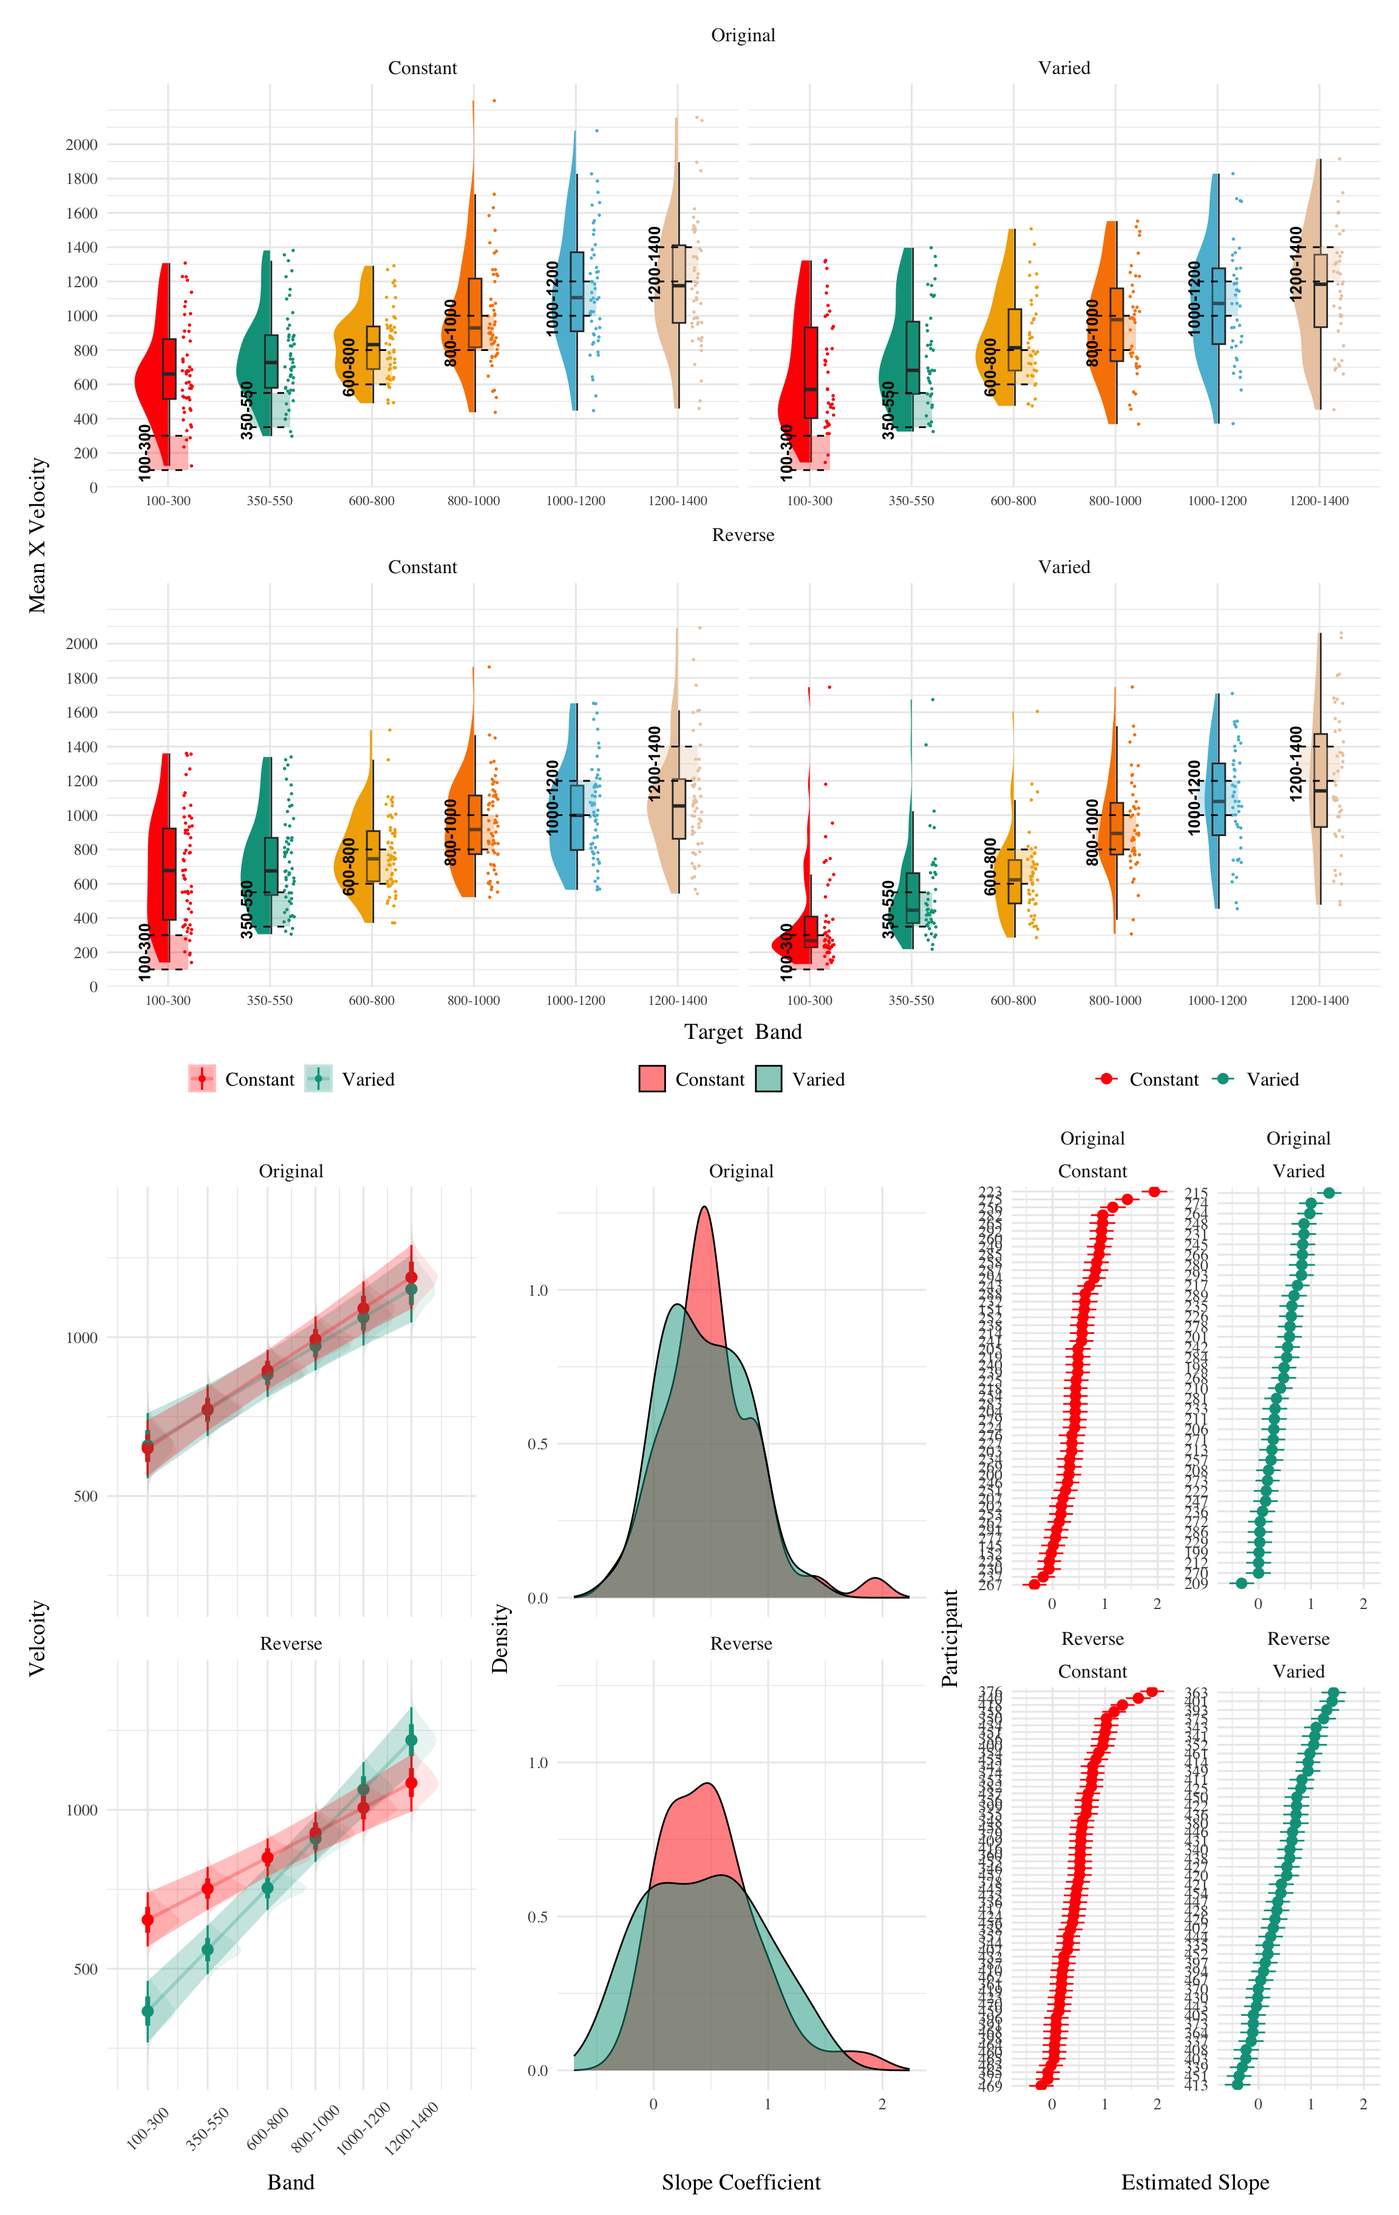
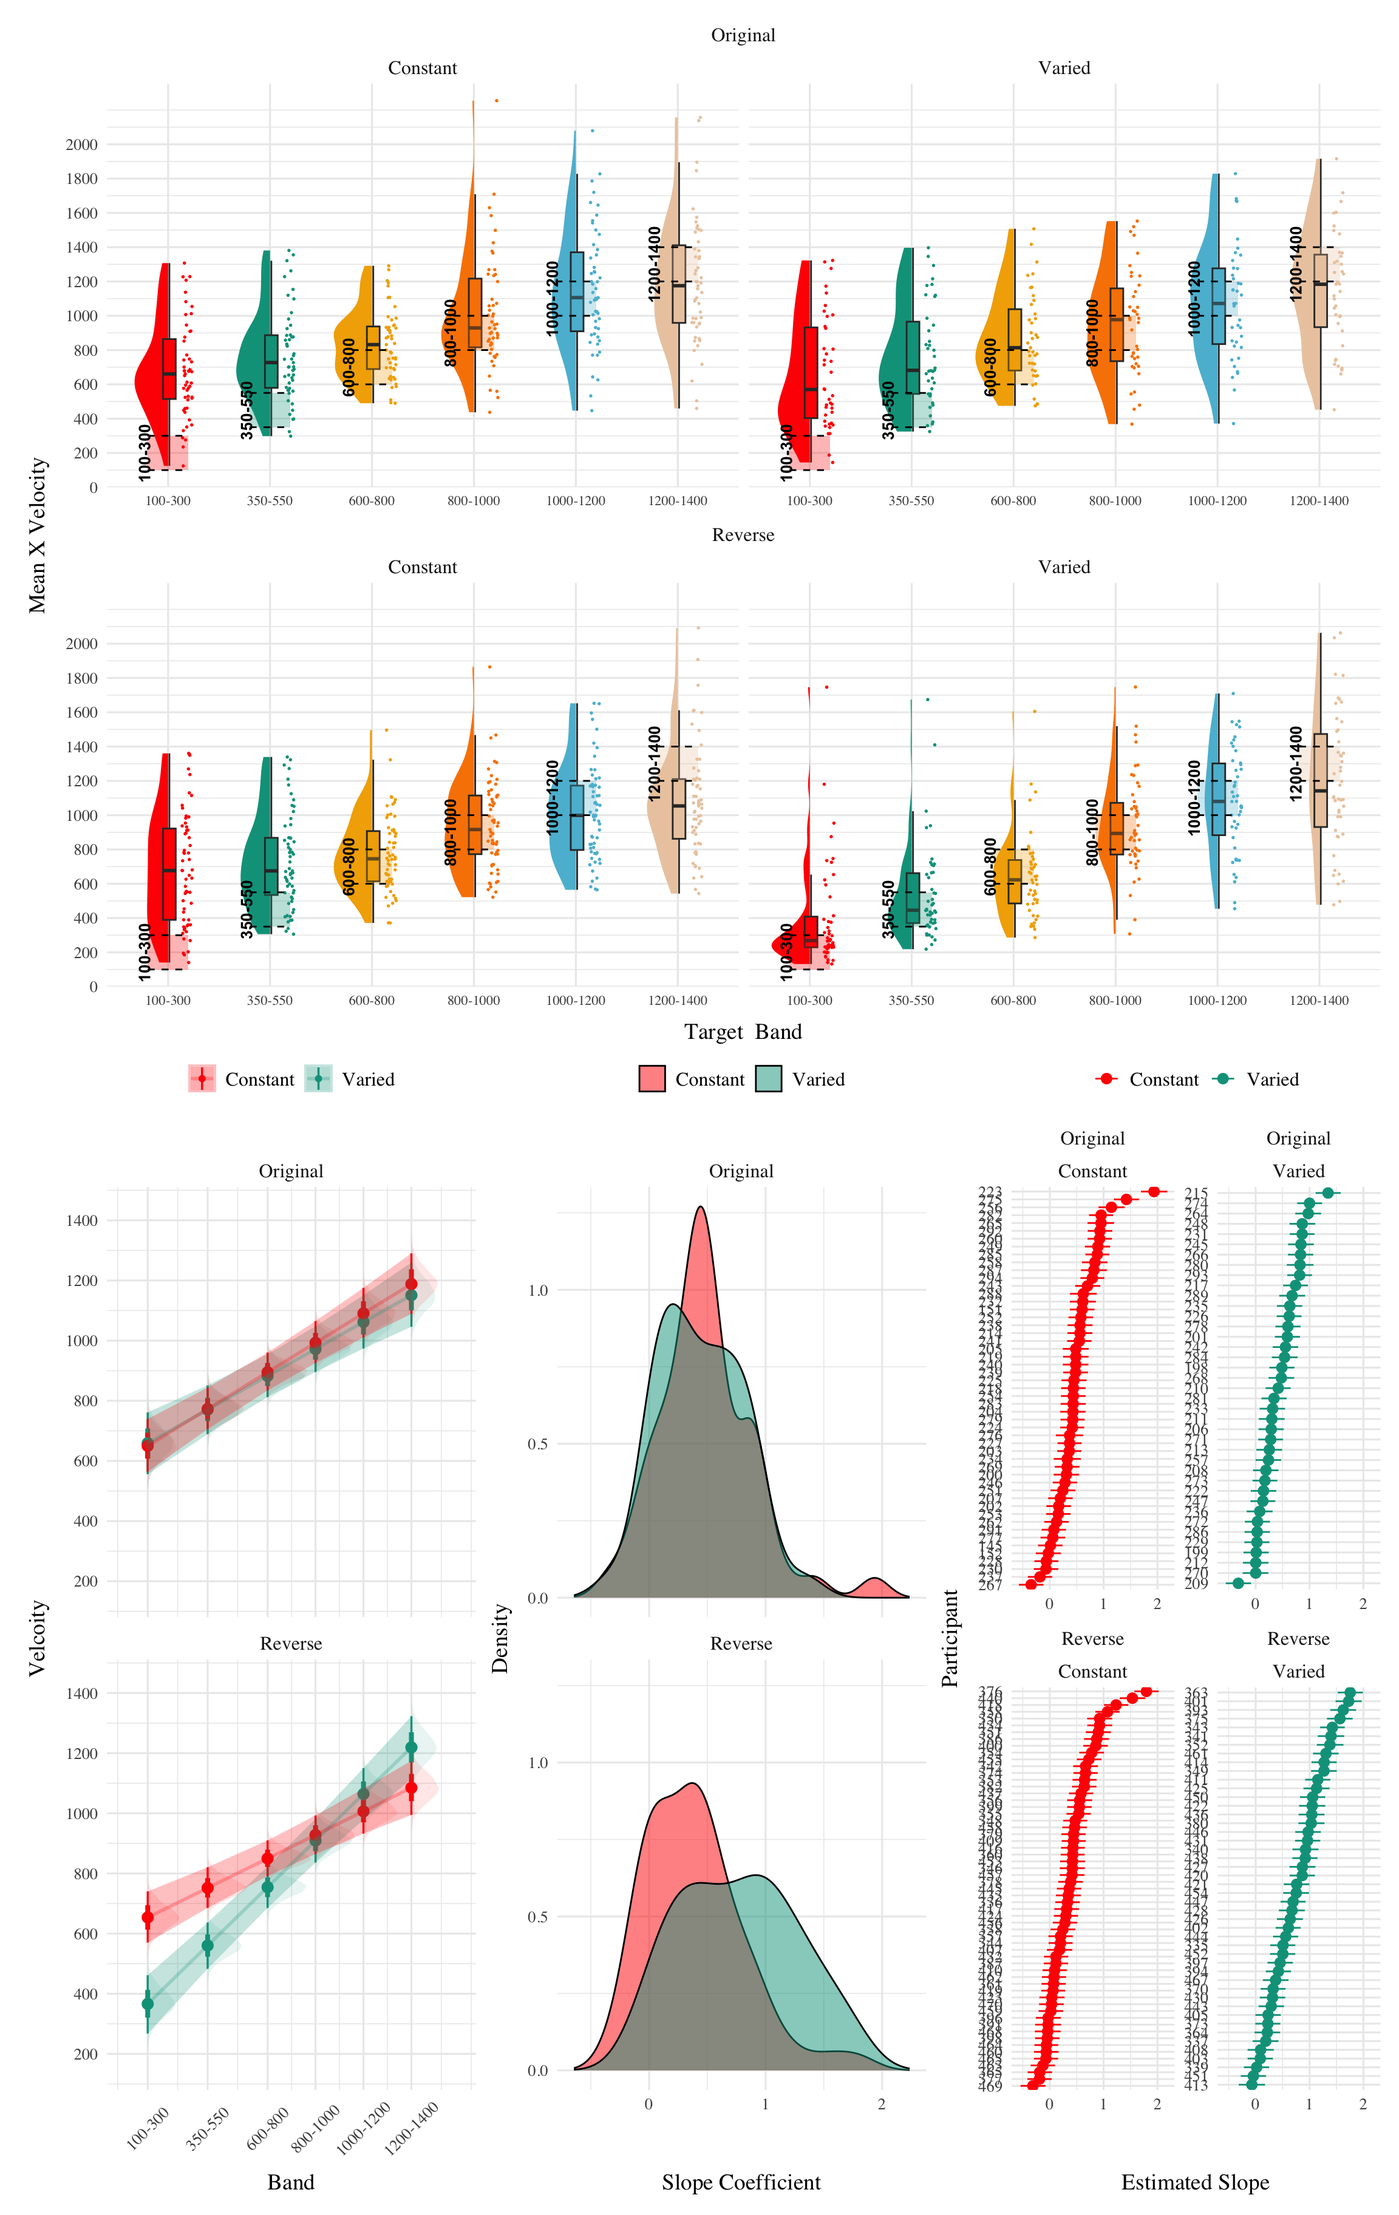
fix e3 slope computation and vx marginal effects plot

diff --git a/docs/Analysis/e3.html b/docs/Analysis/e3.html
@@ -744,17 +744,24 @@ Table&nbsp;1: Experiment 3. Bayesian Mixed Model Predicting Vx as a function of 
 <span>  <span class="fu">scale_x_continuous</span><span class="op">(</span>breaks <span class="op">=</span> <span class="fu"><a href="https://rdrr.io/r/base/c.html">c</a></span><span class="op">(</span><span class="fl">100</span>, <span class="fl">350</span>, <span class="fl">600</span>, <span class="fl">800</span>, <span class="fl">1000</span>, <span class="fl">1200</span><span class="op">)</span>, </span>
 <span>                     labels <span class="op">=</span> <span class="fu"><a href="https://rdrr.io/r/base/levels.html">levels</a></span><span class="op">(</span><span class="va">testE3</span><span class="op">$</span><span class="va">vb</span><span class="op">)</span>, </span>
 <span>                     limits <span class="op">=</span> <span class="fu"><a href="https://rdrr.io/r/base/c.html">c</a></span><span class="op">(</span><span class="fl">0</span>, <span class="fl">1400</span><span class="op">)</span><span class="op">)</span> <span class="op">+</span> </span>
+<span><span class="fu">scale_y_continuous</span><span class="op">(</span>expand<span class="op">=</span><span class="fu">expansion</span><span class="op">(</span>add<span class="op">=</span><span class="fl">100</span><span class="op">)</span>,breaks<span class="op">=</span><span class="fu"><a href="https://rdrr.io/r/base/Round.html">round</a></span><span class="op">(</span><span class="fu"><a href="https://rdrr.io/r/base/seq.html">seq</a></span><span class="op">(</span><span class="fl">0</span>,<span class="fl">2000</span>,by<span class="op">=</span><span class="fl">200</span><span class="op">)</span>,<span class="fl">2</span><span class="op">)</span><span class="op">)</span> <span class="op">+</span></span>
 <span>  <span class="fu">theme</span><span class="op">(</span>legend.title<span class="op">=</span><span class="fu">element_blank</span><span class="op">(</span><span class="op">)</span><span class="op">)</span> <span class="op">+</span> </span>
 <span>  <span class="fu">labs</span><span class="op">(</span>y<span class="op">=</span><span class="st">"Velcoity"</span>, x<span class="op">=</span><span class="st">"Band"</span><span class="op">)</span></span>
 <span></span>
 <span><span class="va">fe</span> <span class="op">&lt;-</span> <span class="fu">fixef</span><span class="op">(</span><span class="va">e3_vxBMM</span><span class="op">)</span><span class="op">[</span>,<span class="fl">1</span><span class="op">]</span></span>
 <span><span class="va">fixed_effect_bandInt</span> <span class="op">&lt;-</span> <span class="fu">fixef</span><span class="op">(</span><span class="va">e3_vxBMM</span><span class="op">)</span><span class="op">[</span>,<span class="fl">1</span><span class="op">]</span><span class="op">[</span><span class="st">"bandInt"</span><span class="op">]</span></span>
-<span><span class="va">fixed_effect_interaction</span> <span class="op">&lt;-</span> <span class="fu">fixef</span><span class="op">(</span><span class="va">e3_vxBMM</span><span class="op">)</span><span class="op">[</span>,<span class="fl">1</span><span class="op">]</span><span class="op">[</span><span class="st">"conditVaried:bandInt"</span><span class="op">]</span></span>
+<span><span class="va">fixed_effect_interaction1</span> <span class="op">&lt;-</span> <span class="fu">fixef</span><span class="op">(</span><span class="va">e3_vxBMM</span><span class="op">)</span><span class="op">[</span>,<span class="fl">1</span><span class="op">]</span><span class="op">[</span><span class="st">"conditVaried:bandInt"</span><span class="op">]</span></span>
+<span><span class="va">fixed_effect_interaction2</span> <span class="op">&lt;-</span> <span class="fu">fixef</span><span class="op">(</span><span class="va">e3_vxBMM</span><span class="op">)</span><span class="op">[</span>,<span class="fl">1</span><span class="op">]</span><span class="op">[</span><span class="st">"bandOrderReverse:bandInt"</span><span class="op">]</span></span>
+<span><span class="va">fixed_effect_interaction3</span> <span class="op">&lt;-</span> <span class="fu">fixef</span><span class="op">(</span><span class="va">e3_vxBMM</span><span class="op">)</span><span class="op">[</span>,<span class="fl">1</span><span class="op">]</span><span class="op">[</span><span class="st">"conditVaried:bandOrderReverse:bandInt"</span><span class="op">]</span></span>
+<span></span>
 <span></span>
 <span><span class="va">re</span> <span class="op">&lt;-</span> <span class="fu"><a href="https://rdrr.io/r/base/data.frame.html">data.frame</a></span><span class="op">(</span><span class="fu">ranef</span><span class="op">(</span><span class="va">e3_vxBMM</span>, pars <span class="op">=</span> <span class="st">"bandInt"</span><span class="op">)</span><span class="op">$</span><span class="va">id</span><span class="op">[</span>, ,<span class="st">'bandInt'</span><span class="op">]</span><span class="op">)</span> <span class="op">|&gt;</span> </span>
 <span>  <span class="fu">rownames_to_column</span><span class="op">(</span><span class="st">"id"</span><span class="op">)</span> <span class="op">|&gt;</span> </span>
 <span>  <span class="fu">left_join</span><span class="op">(</span><span class="va">e3Sbjs</span>,by<span class="op">=</span><span class="st">"id"</span><span class="op">)</span> <span class="op">|&gt;</span></span>
-<span>  <span class="fu">mutate</span><span class="op">(</span>adjust<span class="op">=</span> <span class="va">fixed_effect_bandInt</span> <span class="op">+</span> <span class="va">fixed_effect_interaction</span><span class="op">*</span><span class="op">(</span><span class="va">condit</span><span class="op">==</span><span class="st">"Varied"</span><span class="op">)</span>,slope <span class="op">=</span> <span class="va">Estimate</span> <span class="op">+</span> <span class="va">adjust</span> <span class="op">)</span></span>
+<span>  <span class="fu">mutate</span><span class="op">(</span>adjust<span class="op">=</span> <span class="va">fixed_effect_bandInt</span> <span class="op">+</span> <span class="va">fixed_effect_interaction1</span><span class="op">*</span><span class="op">(</span><span class="va">condit</span><span class="op">==</span><span class="st">"Varied"</span><span class="op">)</span> <span class="op">+</span> </span>
+<span>           <span class="va">fixed_effect_interaction2</span><span class="op">*</span><span class="op">(</span><span class="va">bandOrder</span><span class="op">==</span><span class="st">"Reverse"</span><span class="op">)</span> <span class="op">+</span> </span>
+<span>           <span class="va">fixed_effect_interaction3</span><span class="op">*</span><span class="op">(</span><span class="va">condit</span><span class="op">==</span><span class="st">"Varied"</span> <span class="op">&amp;</span> <span class="va">bandOrder</span><span class="op">==</span><span class="st">"Reverse"</span><span class="op">)</span>,</span>
+<span>  slope <span class="op">=</span> <span class="va">Estimate</span> <span class="op">+</span> <span class="va">adjust</span> <span class="op">)</span></span>
 <span></span>
 <span></span>
 <span><span class="va">pid_den3</span> <span class="op">&lt;-</span> <span class="fu">ggplot</span><span class="op">(</span><span class="va">re</span>, <span class="fu">aes</span><span class="op">(</span>x <span class="op">=</span> <span class="va">slope</span>, fill <span class="op">=</span> <span class="va">condit</span><span class="op">)</span><span class="op">)</span> <span class="op">+</span> </span>
@@ -764,10 +771,11 @@ Table&nbsp;1: Experiment 3. Bayesian Mixed Model Predicting Vx as a function of 
 <span>  <span class="fu">labs</span><span class="op">(</span>x<span class="op">=</span><span class="st">"Slope Coefficient"</span>,y<span class="op">=</span><span class="st">"Density"</span><span class="op">)</span> <span class="op">+</span></span>
 <span>  <span class="fu">facet_wrap</span><span class="op">(</span><span class="op">~</span><span class="va">bandOrder</span>,ncol<span class="op">=</span><span class="fl">1</span><span class="op">)</span></span>
 <span></span>
-<span><span class="va">pid_slopes3</span> <span class="op">&lt;-</span> <span class="va">re</span> <span class="op">|&gt;</span>  <span class="fu">mutate</span><span class="op">(</span>id<span class="op">=</span><span class="fu"><a href="https://rdrr.io/r/stats/reorder.factor.html">reorder</a></span><span class="op">(</span><span class="va">id</span>,<span class="va">slope</span><span class="op">)</span><span class="op">)</span> <span class="op">|&gt;</span></span>
+<span><span class="va">pid_slopes3</span> <span class="op">&lt;-</span> <span class="va">re</span> <span class="op">|&gt;</span>  </span>
+<span>    <span class="fu">mutate</span><span class="op">(</span>id<span class="op">=</span><span class="fu"><a href="https://rdrr.io/r/stats/reorder.factor.html">reorder</a></span><span class="op">(</span><span class="va">id</span>,<span class="va">slope</span><span class="op">)</span><span class="op">)</span> <span class="op">|&gt;</span></span>
 <span>  <span class="fu">ggplot</span><span class="op">(</span><span class="fu">aes</span><span class="op">(</span>y<span class="op">=</span><span class="va">id</span>, x<span class="op">=</span><span class="va">slope</span>,fill<span class="op">=</span><span class="va">condit</span>,color<span class="op">=</span><span class="va">condit</span><span class="op">)</span><span class="op">)</span> <span class="op">+</span> </span>
 <span>    <span class="fu">geom_pointrange</span><span class="op">(</span><span class="fu">aes</span><span class="op">(</span>xmin<span class="op">=</span><span class="va">Q2.5</span><span class="op">+</span><span class="va">adjust</span>, xmax<span class="op">=</span><span class="va">Q97.5</span><span class="op">+</span><span class="va">adjust</span><span class="op">)</span><span class="op">)</span> <span class="op">+</span> </span>
-<span>     <span class="fu">theme</span><span class="op">(</span>legend.title<span class="op">=</span><span class="fu">element_blank</span><span class="op">(</span><span class="op">)</span><span class="op">)</span> <span class="op">+</span> </span>
+<span>    <span class="fu">theme</span><span class="op">(</span>legend.title<span class="op">=</span><span class="fu">element_blank</span><span class="op">(</span><span class="op">)</span><span class="op">)</span> <span class="op">+</span> </span>
 <span>    <span class="fu">labs</span><span class="op">(</span>x<span class="op">=</span><span class="st">"Estimated Slope"</span>, y<span class="op">=</span><span class="st">"Participant"</span><span class="op">)</span>  <span class="op">+</span> </span>
 <span>    <span class="fu">ggh4x</span><span class="fu">::</span><span class="fu"><a href="https://teunbrand.github.io/ggh4x/reference/facet_wrap2.html">facet_wrap2</a></span><span class="op">(</span><span class="va">bandOrder</span><span class="op">~</span><span class="va">condit</span>,axes<span class="op">=</span><span class="st">"all"</span>,scales<span class="op">=</span><span class="st">"free_y"</span><span class="op">)</span></span>
 <span></span>

diff --git a/docs/Analysis/e1.html b/docs/Analysis/e1.html
@@ -677,6 +677,7 @@ Table&nbsp;3: Experiment 1. Bayesian Mixed Model Predicting Vx as a function of 
 <span>  <span class="fu">scale_x_continuous</span><span class="op">(</span>breaks <span class="op">=</span> <span class="fu"><a href="https://rdrr.io/r/base/c.html">c</a></span><span class="op">(</span><span class="fl">100</span>, <span class="fl">350</span>, <span class="fl">600</span>, <span class="fl">800</span>, <span class="fl">1000</span>, <span class="fl">1200</span><span class="op">)</span>, </span>
 <span>                     labels <span class="op">=</span> <span class="fu"><a href="https://rdrr.io/r/base/levels.html">levels</a></span><span class="op">(</span><span class="va">testE1</span><span class="op">$</span><span class="va">vb</span><span class="op">)</span>, </span>
 <span>                     limits <span class="op">=</span> <span class="fu"><a href="https://rdrr.io/r/base/c.html">c</a></span><span class="op">(</span><span class="fl">0</span>, <span class="fl">1400</span><span class="op">)</span><span class="op">)</span> <span class="op">+</span> </span>
+<span>  <span class="fu">scale_y_continuous</span><span class="op">(</span>expand<span class="op">=</span><span class="fu">expansion</span><span class="op">(</span>add<span class="op">=</span><span class="fl">100</span><span class="op">)</span>,breaks<span class="op">=</span><span class="fu"><a href="https://rdrr.io/r/base/Round.html">round</a></span><span class="op">(</span><span class="fu"><a href="https://rdrr.io/r/base/seq.html">seq</a></span><span class="op">(</span><span class="fl">0</span>,<span class="fl">2000</span>,by<span class="op">=</span><span class="fl">200</span><span class="op">)</span>,<span class="fl">2</span><span class="op">)</span><span class="op">)</span> <span class="op">+</span></span>
 <span>  <span class="fu">theme</span><span class="op">(</span>legend.title<span class="op">=</span><span class="fu">element_blank</span><span class="op">(</span><span class="op">)</span><span class="op">)</span> <span class="op">+</span> </span>
 <span>  <span class="fu">labs</span><span class="op">(</span>y<span class="op">=</span><span class="st">"Velcoity"</span>, x<span class="op">=</span><span class="st">"Band"</span><span class="op">)</span></span>
 <span></span>

diff --git a/docs/Analysis/e2.html b/docs/Analysis/e2.html
@@ -671,6 +671,7 @@ Table&nbsp;1: Experiment 2. Bayesian Mixed Model Predicting Vx as a function of 
 <span>  <span class="fu">scale_x_continuous</span><span class="op">(</span>breaks <span class="op">=</span> <span class="fu"><a href="https://rdrr.io/r/base/c.html">c</a></span><span class="op">(</span><span class="fl">100</span>, <span class="fl">350</span>, <span class="fl">600</span>, <span class="fl">800</span>, <span class="fl">1000</span>, <span class="fl">1200</span><span class="op">)</span>, </span>
 <span>                     labels <span class="op">=</span> <span class="fu"><a href="https://rdrr.io/r/base/levels.html">levels</a></span><span class="op">(</span><span class="va">testE2</span><span class="op">$</span><span class="va">vb</span><span class="op">)</span>, </span>
 <span>                     limits <span class="op">=</span> <span class="fu"><a href="https://rdrr.io/r/base/c.html">c</a></span><span class="op">(</span><span class="fl">0</span>, <span class="fl">1400</span><span class="op">)</span><span class="op">)</span> <span class="op">+</span> </span>
+<span><span class="fu">scale_y_continuous</span><span class="op">(</span>expand<span class="op">=</span><span class="fu">expansion</span><span class="op">(</span>add<span class="op">=</span><span class="fl">100</span><span class="op">)</span>,breaks<span class="op">=</span><span class="fu"><a href="https://rdrr.io/r/base/Round.html">round</a></span><span class="op">(</span><span class="fu"><a href="https://rdrr.io/r/base/seq.html">seq</a></span><span class="op">(</span><span class="fl">0</span>,<span class="fl">2000</span>,by<span class="op">=</span><span class="fl">200</span><span class="op">)</span>,<span class="fl">2</span><span class="op">)</span><span class="op">)</span> <span class="op">+</span></span>
 <span>  <span class="fu">theme</span><span class="op">(</span>legend.title<span class="op">=</span><span class="fu">element_blank</span><span class="op">(</span><span class="op">)</span><span class="op">)</span> <span class="op">+</span> </span>
 <span>  <span class="fu">labs</span><span class="op">(</span>y<span class="op">=</span><span class="st">"Velcoity"</span>, x<span class="op">=</span><span class="st">"Band"</span><span class="op">)</span></span>
 <span></span>
